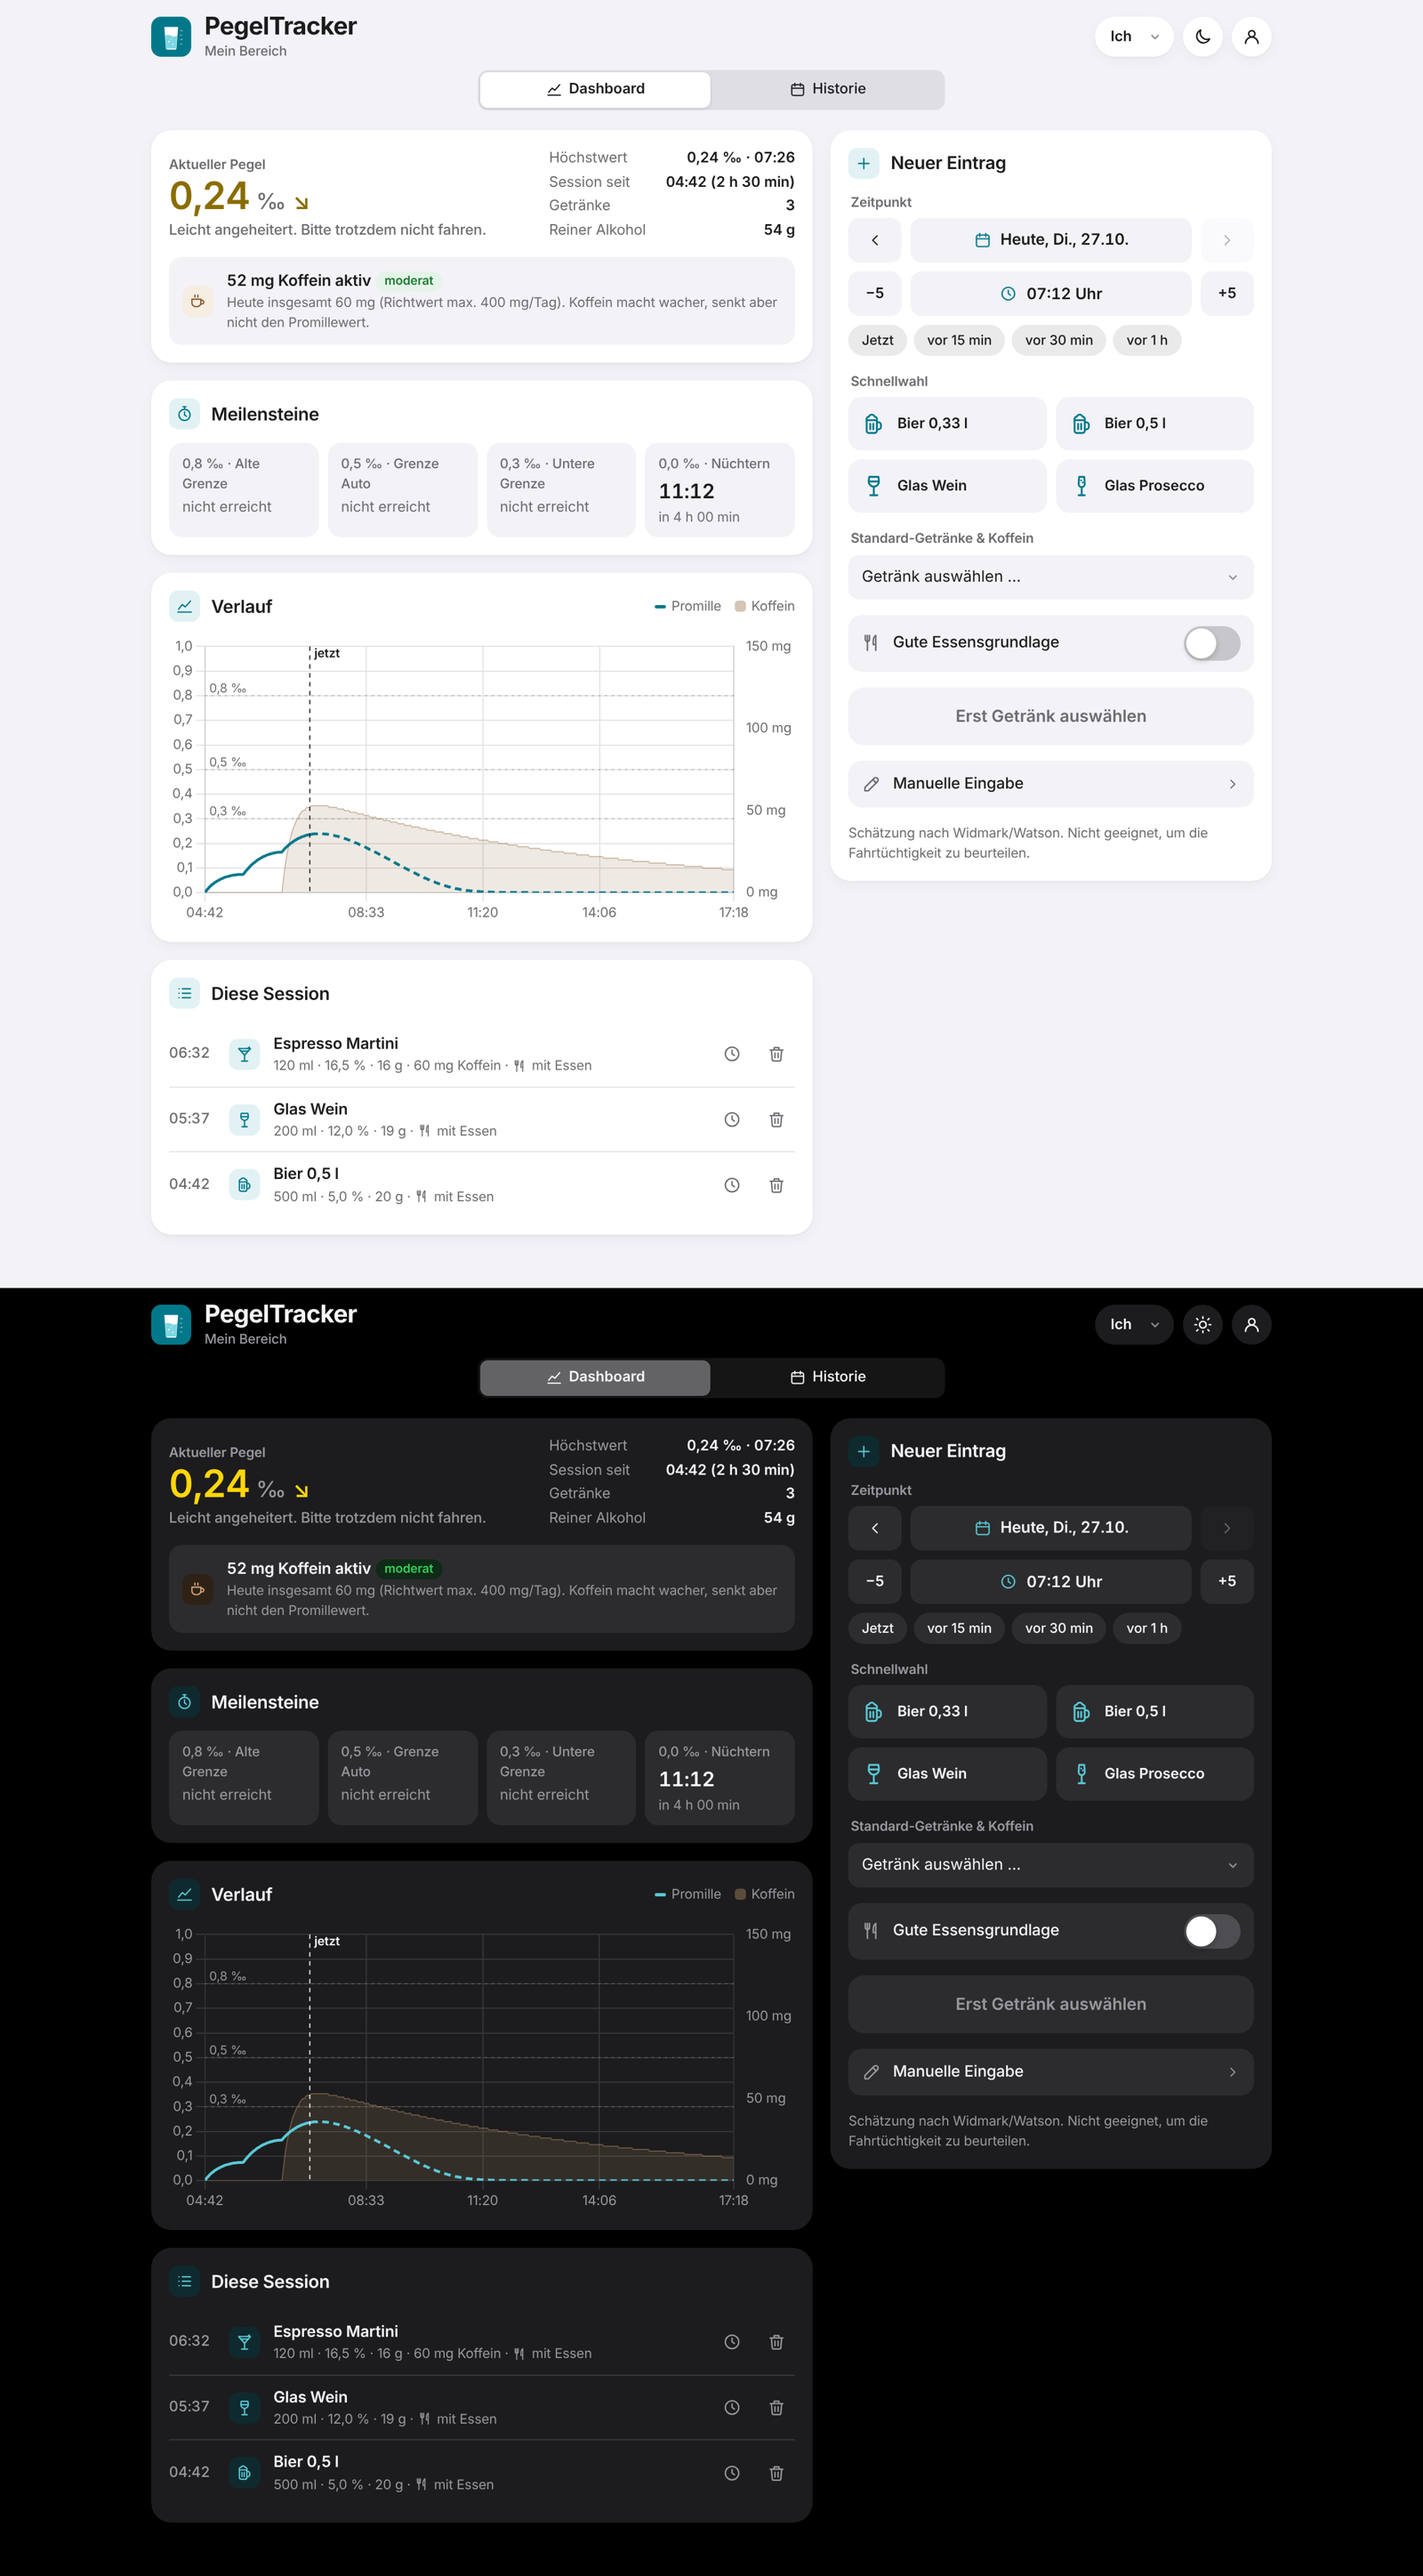
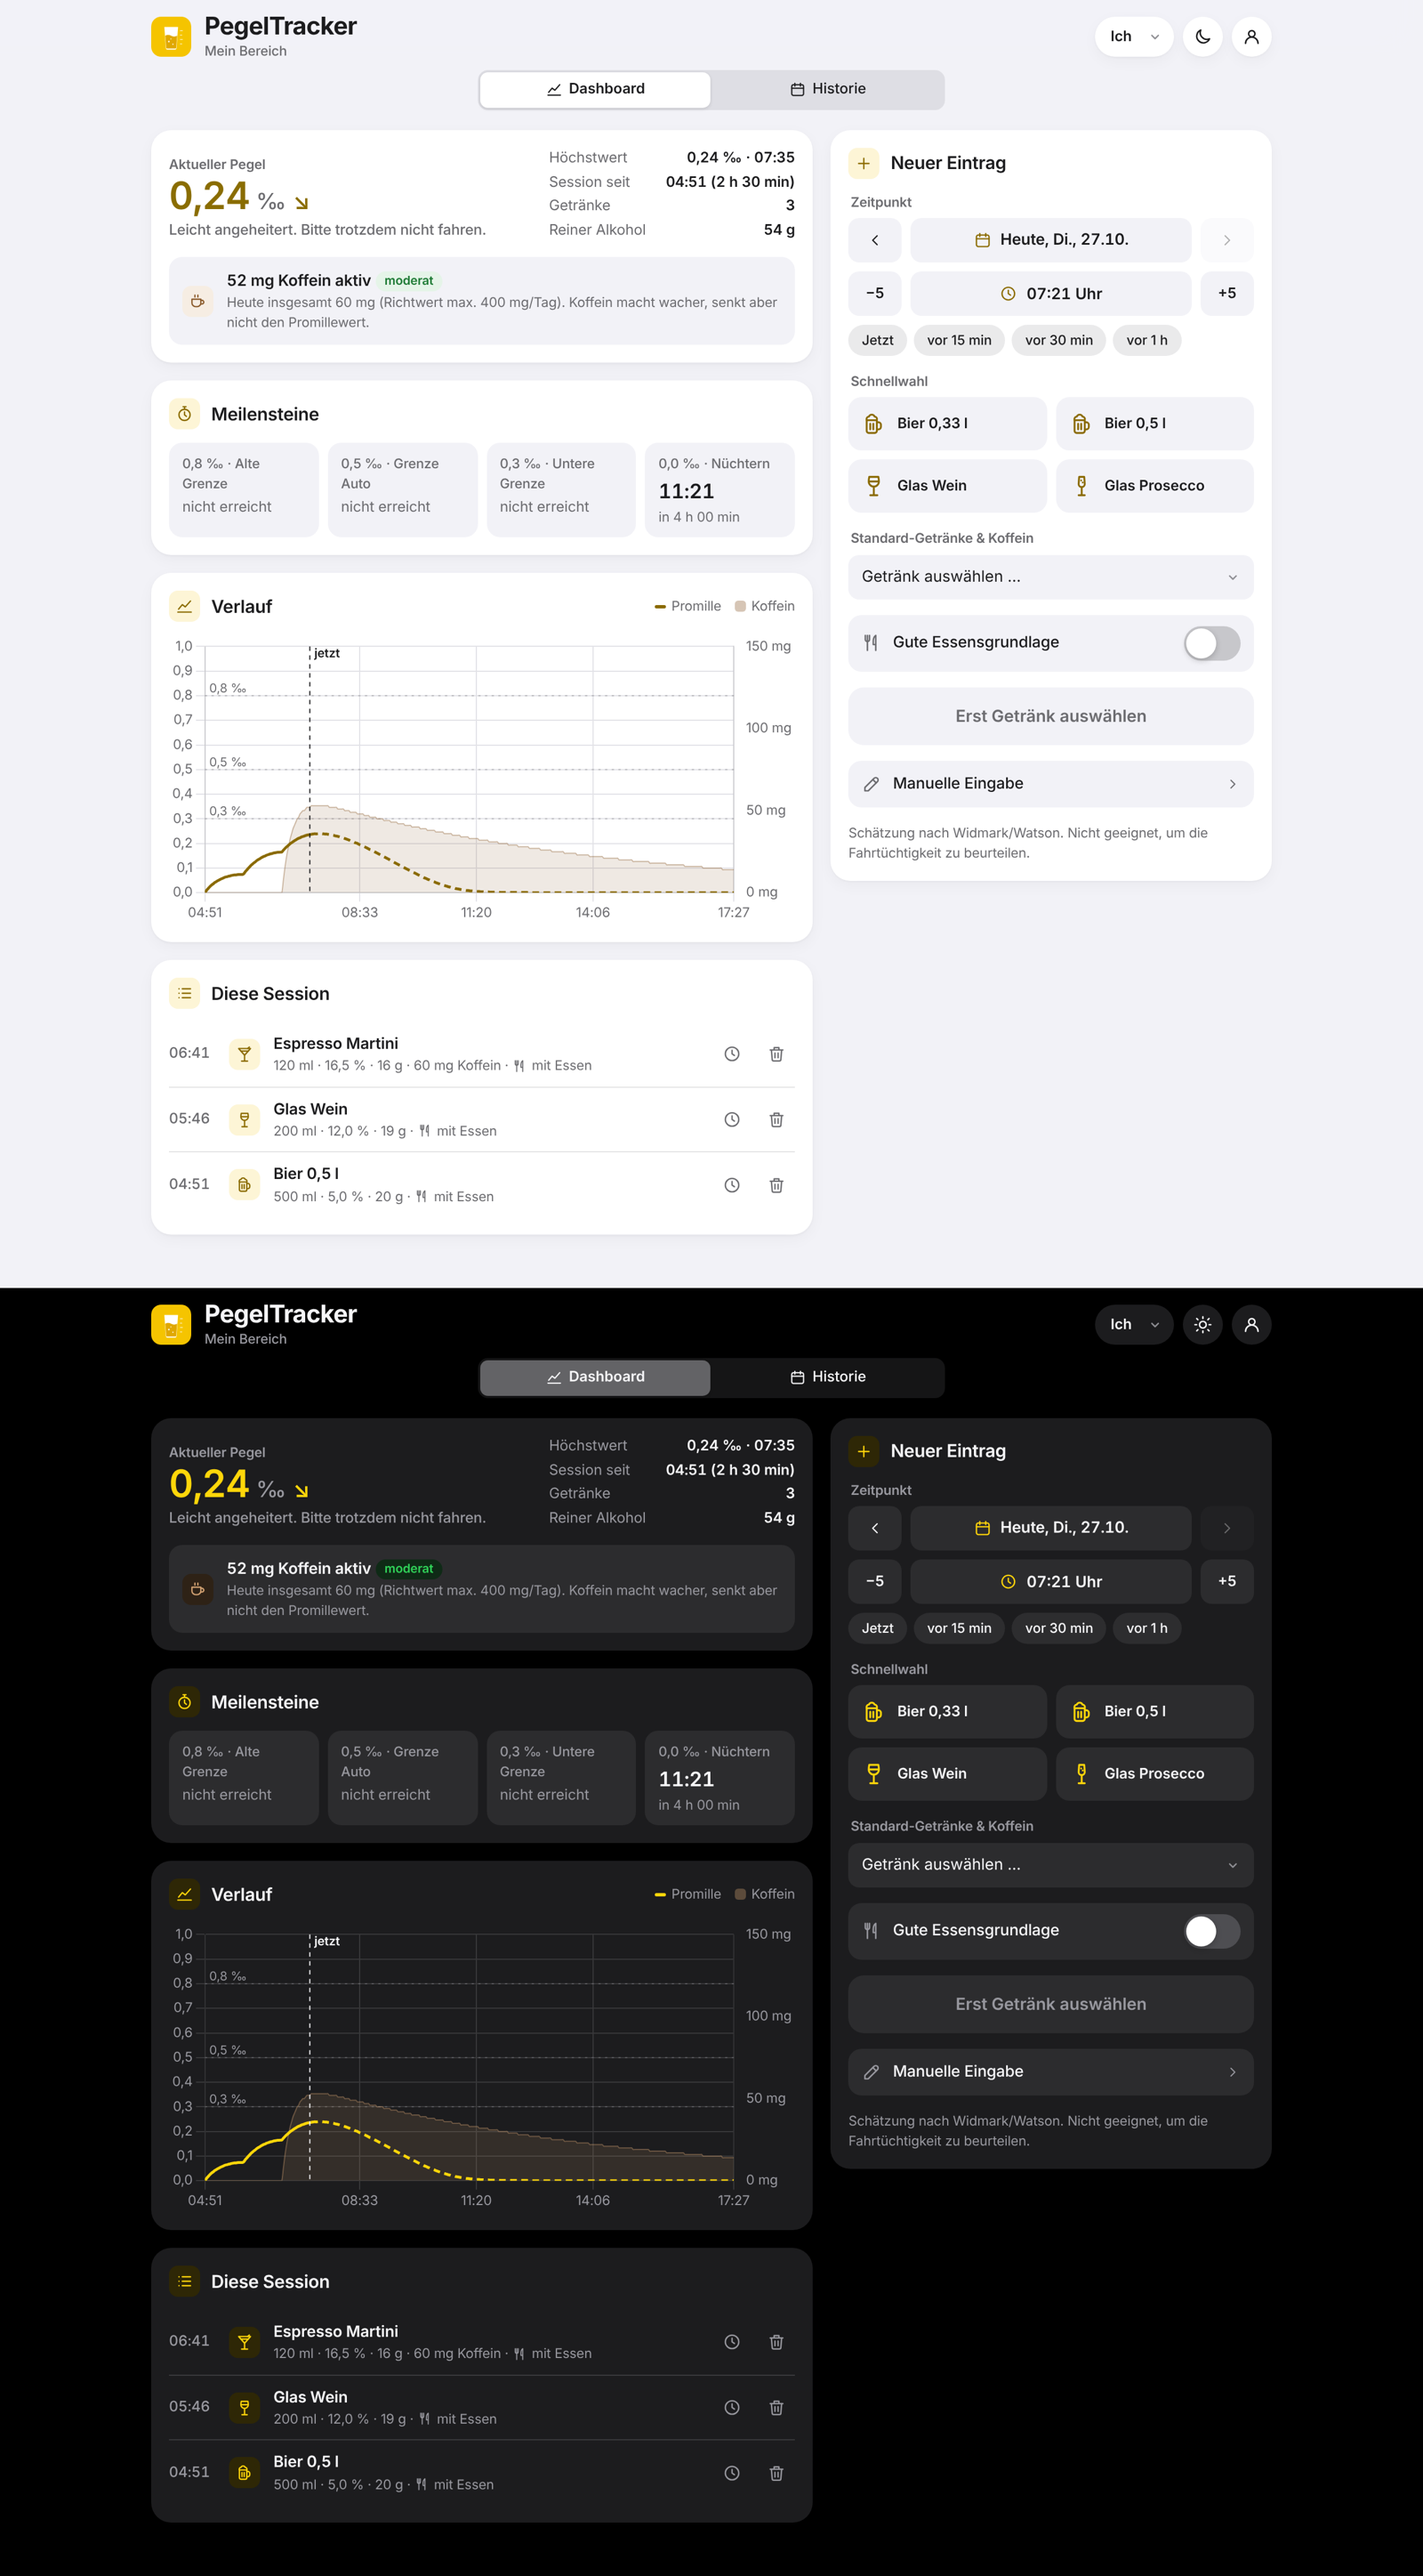
Akzent von Petrol auf Gold umgestellt
Text und Symbole im dunkleren Gold (#8a6a00, kontrastsicher), Knöpfe und
Auswahl in hellem Gold (#f5c400 / dunkel #ffd60a) mit dunkler Schrift.
App-Symbol in Gold, SW-Cache v6.

Claude-Session: https://claude.ai/code/session_01X1oX1w2PYBwFAQHSQxnsu9

diff --git a/index.html b/index.html
@@ -17,11 +17,11 @@
     <script src="https://cdn.jsdelivr.net/npm/chart.js@4.4.1/dist/chart.umd.min.js"></script>
     <style>
         /* Apple-Designsprache wie im Dashboard (mvs2-bot.github.io), „Zuhause“ und DailyMind.
-           Eigener Akzent: Petrol (Wasserpegel). Koffein in Braun, Pegelstufen von Grün bis Rot. */
+           Eigener Akzent: Gold (wie ein volles Glas). Text und Symbole im dunkleren Gold, Flächen in hellem Gold mit dunkler Schrift. Koffein in Braun, Pegelstufen von Grün bis Rot. */
         :root {
             --bg: #f2f2f7; --card: #fff; --well: #f2f2f7; --hover: #e9e9ef; --line: #e2e2e7; --sep: rgba(60, 60, 67, .14);
             --ink: #1c1c1e; --text: #3a3a3c; --mute: #6c6c70;
-            --p1: #00788a; --p1-soft: #e2f2f4; --on-p1: #fff;
+            --p1: #8a6a00; --p1-fill: #f5c400; --p1-soft: #fdf5d6; --on-p1: #1c1c1e;
             --caf: #8a5a2b; --caf-soft: #f6ede3;
             --ok: #1d7a34; --ok-soft: #e5f4e8; --danger: #d70015; --danger-soft: #ffe6e8; --warn: #9a5b00; --warn-soft: #fff1e0;
             /* Pegelstufen: 0 nüchtern · unter 0,3 · ab 0,3 · ab 0,5 · ab 1,1 ‰ */
@@ -36,7 +36,7 @@
         .dark {
             color-scheme: dark; --bg: #000; --card: #1c1c1e; --well: #2c2c2e; --hover: #3a3a3c; --line: #38383a; --sep: rgba(84, 84, 88, .55);
             --ink: #f5f5f7; --text: #d1d1d6; --mute: #98989f;
-            --p1: #5ac8d6; --p1-soft: #0f2a2e; --on-p1: #032a30;
+            --p1: #ffd60a; --p1-fill: #ffd60a; --p1-soft: #2e2706; --on-p1: #1c1c1e;
             --caf: #d4a373; --caf-soft: #2e2216;
             --ok: #30d158; --ok-soft: #0f2a16; --danger: #ff6961; --danger-soft: #3a1412; --warn: #ffb340; --warn-soft: #33240b;
             --lv0: #30d158; --lv1: #ffd60a; --lv2: #ffb340; --lv3: #ff8a3d; --lv4: #ff6961;
@@ -209,12 +209,12 @@
         .switch input:checked + span::after { transform: translateX(20px); }
         .switch input:focus-visible + span { outline: 2px solid var(--p1); outline-offset: 2px; }
         .btn { display: inline-flex; align-items: center; justify-content: center; gap: 6px; min-height: 40px; padding: 8px 16px; font-size: 14px; font-weight: 600; border: 0; border-radius: 12px;
-            background: var(--p1); color: var(--on-p1); transition: filter .15s; }
+            background: var(--p1-fill); color: var(--on-p1); transition: filter .15s; }
         .btn:hover { filter: brightness(1.06); }
         .btn:disabled { opacity: .5; }
         .btn.ghost { background: var(--well); color: var(--ink); }
         .btn-add { display: flex; width: 100%; flex-direction: column; align-items: center; justify-content: center; gap: 1px; min-height: 52px; margin-bottom: 14px; padding: 8px 16px;
-            border: 0; border-radius: 14px; background: var(--p1); color: var(--on-p1); font-size: 15px; font-weight: 600; transition: filter .15s, transform .1s; }
+            border: 0; border-radius: 14px; background: var(--p1-fill); color: var(--on-p1); font-size: 15px; font-weight: 600; transition: filter .15s, transform .1s; }
         .btn-add:hover { filter: brightness(1.06); }
         .btn-add:active { transform: scale(.98); }
         .btn-add:disabled { background: var(--well); color: var(--mute); filter: none; transform: none; }
@@ -262,7 +262,7 @@
         .wp-grid + .eyebrow { margin-top: 12px; }
         .wp-cell { min-height: 34px; border: 0; border-radius: 8px; background: var(--card); color: var(--ink); font-size: 13px; font-weight: 500; font-variant-numeric: tabular-nums; transition: background .15s; }
         .wp-cell:hover { background: var(--hover); }
-        .wp-cell[aria-pressed="true"] { background: var(--p1); color: var(--on-p1); font-weight: 600; }
+        .wp-cell[aria-pressed="true"] { background: var(--p1-fill); color: var(--on-p1); font-weight: 600; }
 
         /* Historie */
         .hist { display: grid; gap: 12px; }
@@ -1270,7 +1270,7 @@ document.addEventListener('keydown', e => { if (e.key === 'Escape' && !$('#meMen
 /* ───────── Eigenes Profilbild (wie im Quest Log) ─────────
    Das Bild liegt im privaten Bucket "avatars", der Pfad steht in overall_profiles.avatar_path (ein Bild für alle Apps).
    Angezeigt wird es über einen kurzlebigen signierten Link. Ohne Bild: Personen-Symbol im Button, Initialen im Menü. */
-const AVA_COLORS = ['#00788a', '#8a5a2b', '#5856d6', '#0066cc', '#a2453a', '#4a7356'];
+const AVA_COLORS = ['#8a6a00', '#8a5a2b', '#5856d6', '#0066cc', '#a2453a', '#4a7356'];
 function initials(name) { return String(name || '?').trim().split(/\s+/).slice(0, 2).map(w => w[0]).join('').toUpperCase() || '?'; }
 function avaHtml(name, url) {
     if (url) return `<img src="${esc(url)}" alt="">`;

diff --git a/sw.js b/sw.js
@@ -2,7 +2,7 @@
    - Eigene Dateien: erst Netz (max. 4 s), sonst gespeicherte Version → Updates kommen sofort an
    - Bibliotheken: aus dem Speicher
    - Supabase-Anfragen werden NICHT gespeichert (die App merkt sich die Getränke selbst, pro Benutzer) */
-const P="pegeltracker-",V=P+"v5";
+const P="pegeltracker-",V=P+"v6";
 const CORE=['./','index.html','shared/ios-nav.js','manifest.json','icon.svg','icons/icon-192.png','icons/icon-512.png','icons/icon-maskable-512.png','icons/apple-touch-icon.png','icons/favicon-32.png'];
 const EXTRA=["https://cdn.jsdelivr.net/npm/@supabase/supabase-js@2.45.4/dist/umd/supabase.js","https://cdn.jsdelivr.net/npm/chart.js@4.4.1/dist/chart.umd.min.js"];
 const CDN=/cdn\.jsdelivr\.net/;
